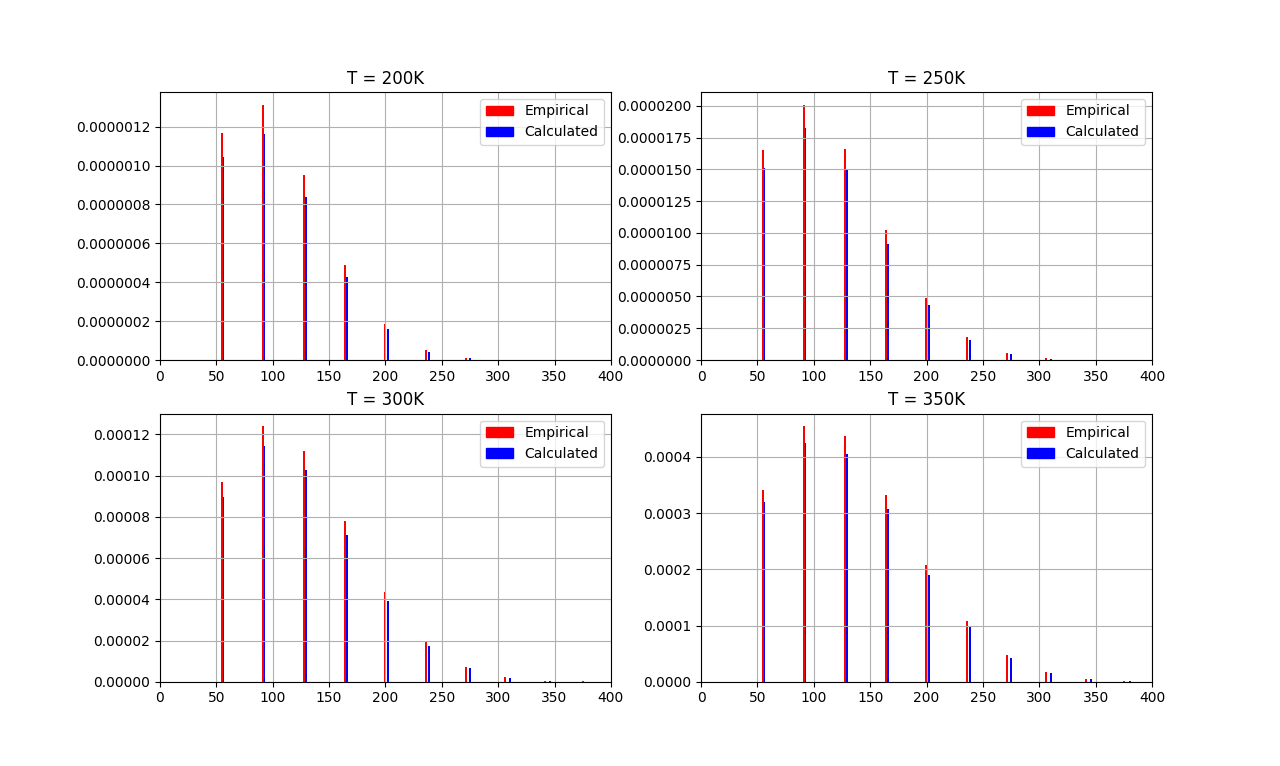
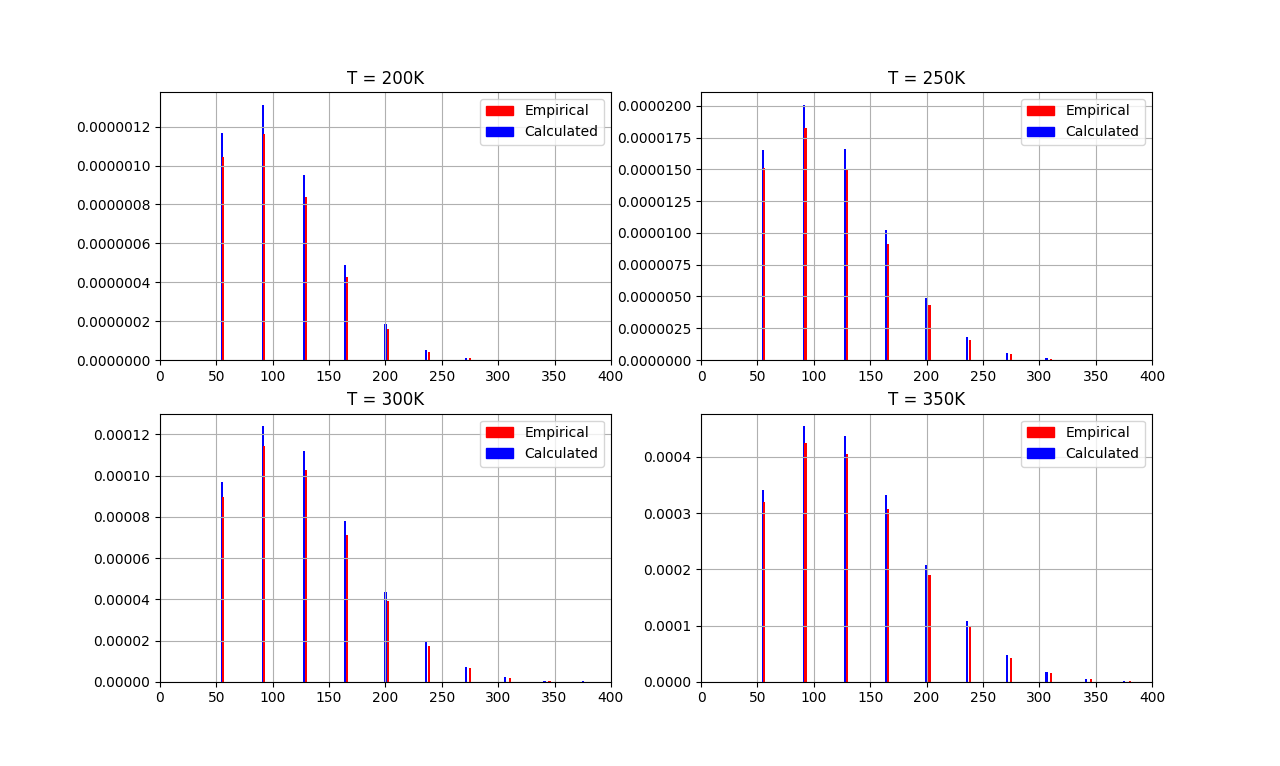
updated rovibrational spectra

Changed region(s): [[0.7188, 0.7507, 0.75, 0.8708], [0.7188, 0.3903, 0.75, 0.4504]]

diff --git a/scripts/rovibrational_spectra.py b/scripts/rovibrational_spectra.py
@@ -30,44 +30,61 @@ def model_spectra(angular_momentum, base_energies, matrix_element, temperature):
 
 v0, J = read_energy_file('my_potential/energy.dat', vibrational_level = 0)
 v1, J = read_energy_file('my_potential/energy.dat', vibrational_level = 1)
+v0_ex, J = read_energy_file('example_potential/energy.dat', vibrational_level = 0)
+v1_ex, J = read_energy_file('example_potential/energy.dat', vibrational_level = 1)
 
 frequencies, matrix_elements = read_spectrum_file('vib-sp-my/spectrum.dat')
+frequencies_ex, matrix_elements_ex = read_spectrum_file('vib-sp-example/spectrum.dat')
 
 # transitions corresponding to j = +1
 transitions_p = []
+transitions_p_ex = []
 j_p = []
 for en1, en2 in zip(v0, v1[1:]):
     transitions_p.append(en2 - en1)
 for j1, j2 in zip(J, J[1:]):
     j_p.append(j1)
+for en1, en2 in zip(v0_ex, v1_ex[1:]):
+    transitions_p_ex.append(en2 - en1)
 
 # transitions corresponding to j = -1
 transitions_m = []
+transitions_m_ex = []
 j_m = []
 for en1, en2 in zip(v0[1:], v1):
     transitions_m.append(en2 - en1)
 for j1, j2 in zip(J, J[1:]):
     j_m.append(j2)
+for en1, en2 in zip(v0_ex[1:], v1_ex):
+    transitions_m_ex.append(en2 - en1)
 
-width = 2.0
+width = 2.5
 
 temperatures = [200, 250, 300, 350]
 for plot_number, temperature in enumerate(temperatures):
     intensities_p = model_spectra(j_p, v0, matrix_elements[0], temperature)
     intensities_m = model_spectra(j_m, v0, matrix_elements[0], temperature)
-    
+
+    intensities_p_ex = model_spectra(j_p,v0_ex, matrix_elements_ex[0], temperature)
+    intensities_m_ex = model_spectra(j_m, v0_ex, matrix_elements_ex[0], temperature)
+
     show_spectra(temperature, transitions_p, intensities_p)
     show_spectra(temperature, transitions_m, intensities_m)
+    show_spectra(temperature, transitions_p_ex, intensities_p_ex)
+    show_spectra(temperature, transitions_m_ex, intensities_m_ex)
 
     ax = plt.subplot(2, 2, plot_number + 1)
     ax.set_title('T = ' + str(temperature) + 'K')
     ax.bar(transitions_p, intensities_p, width, color = "blue")
-    ax.bar(transitions_m, intensities_m, width, color = "red")
+    ax.bar(transitions_m, intensities_m, width, color = "blue")
+    ax.bar(transitions_p_ex, intensities_p_ex, width, color = 'red')
+    ax.bar(transitions_m_ex, intensities_m_ex, width, color = 'red')
     
     ax.set_xlim([3100, 3900])
+    #ax.set_ylim([0, 2.25e-9])
 
-    red_patch = mpatches.Patch(color = 'red', label = 'dJ = -1')
-    blue_patch = mpatches.Patch(color = 'blue', label = 'dJ = +1')
+    red_patch = mpatches.Patch(color = 'red', label = 'Empirical')
+    blue_patch = mpatches.Patch(color = 'blue', label = 'Calculated')
 
     plt.legend(handles = [red_patch, blue_patch])
     plt.grid()

diff --git a/scripts/rotational_spectra.py b/scripts/rotational_spectra.py
@@ -15,7 +15,12 @@ def model_spectra(angular_momentum, transition_energy, temperature):
     
     for j, e1, e2 in zip(angular_momentum, transition_energy, transition_energy[1:]):
         transitions.append(e2 - e1)
-        intensities.append(d0**2 * (j + 1) * np.exp(-e1 * cmtoj / (k * temperature))) 
+        intensities.append(d0**2 * (j + 1) * np.exp(-e1 * cmtoj / (k * temperature)))
+        print('J transition: {0} -> {1}'.format(j, j+1))
+        print('Transition: {0}'.format(e2 - e1))
+        print('Going from energy level: {0}'.format(e1))
+        print('Intensity: {0}'.format(intensities[-1]))
+        print('*'*30)
     return transitions, intensities
 
 # --------------------------
@@ -32,14 +37,16 @@ mu = 16. * 1. / (16. + 1.) * da # in kg
 rotational_constant = h / (8 * np.pi**2 * mu * c * r**2) / 100 # 100 to translate m**(-1) to cm**(-1)
 print('rotational_constant: {0} cm-1'.format(rotational_constant))
 
-energies, J = read_energy_file('example_potential/energy.dat', vibrational_level = 0)
-energies_ex, J_ex = read_energy_file('my_potential/energy.dat', vibrational_level = 0)
+energies, J = read_energy_file('my_potential/energy.dat', vibrational_level = 0)
+energies_ex, J_ex = read_energy_file('example_potential/energy.dat', vibrational_level = 0)
 
-width = 1.75
+width = 2
 
 temperatures = [200, 250, 300, 350]
 for plot_number, temperature in enumerate(temperatures):
+    print('MODELING SPECTRA BASED ON CALCULATED POTENTIAL')
     transitions, intensities = model_spectra(J, energies, temperature)
+    print('MODELING SPECTRA BASED ON EMPIRICAL POTENTIAL')
     transitions_ex, intensities_ex = model_spectra(J_ex, energies_ex, temperature)
     
     show_spectra(temperature, transitions, intensities)
